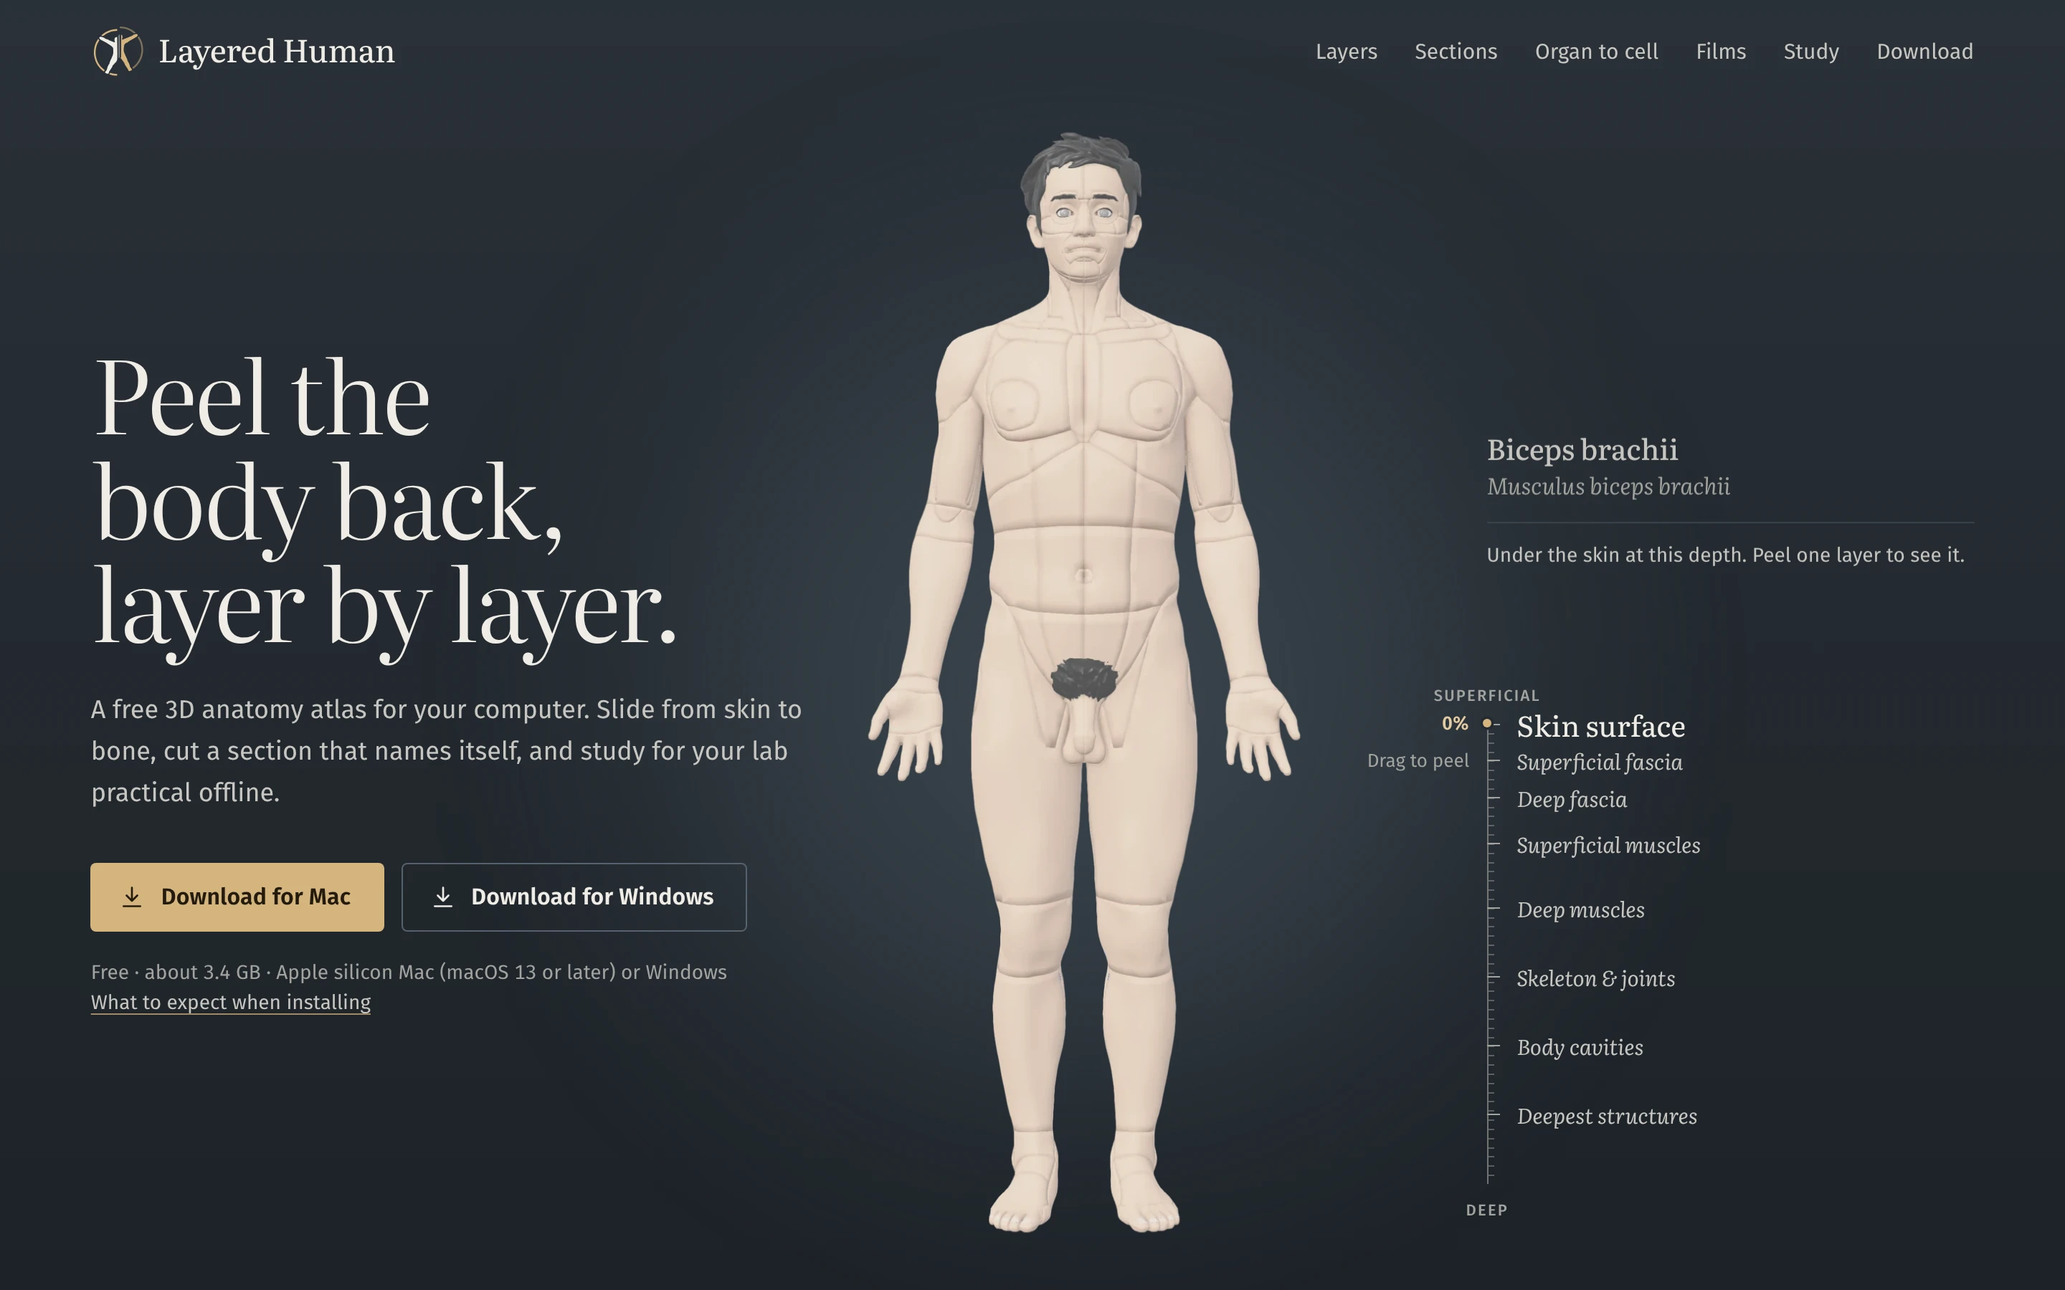
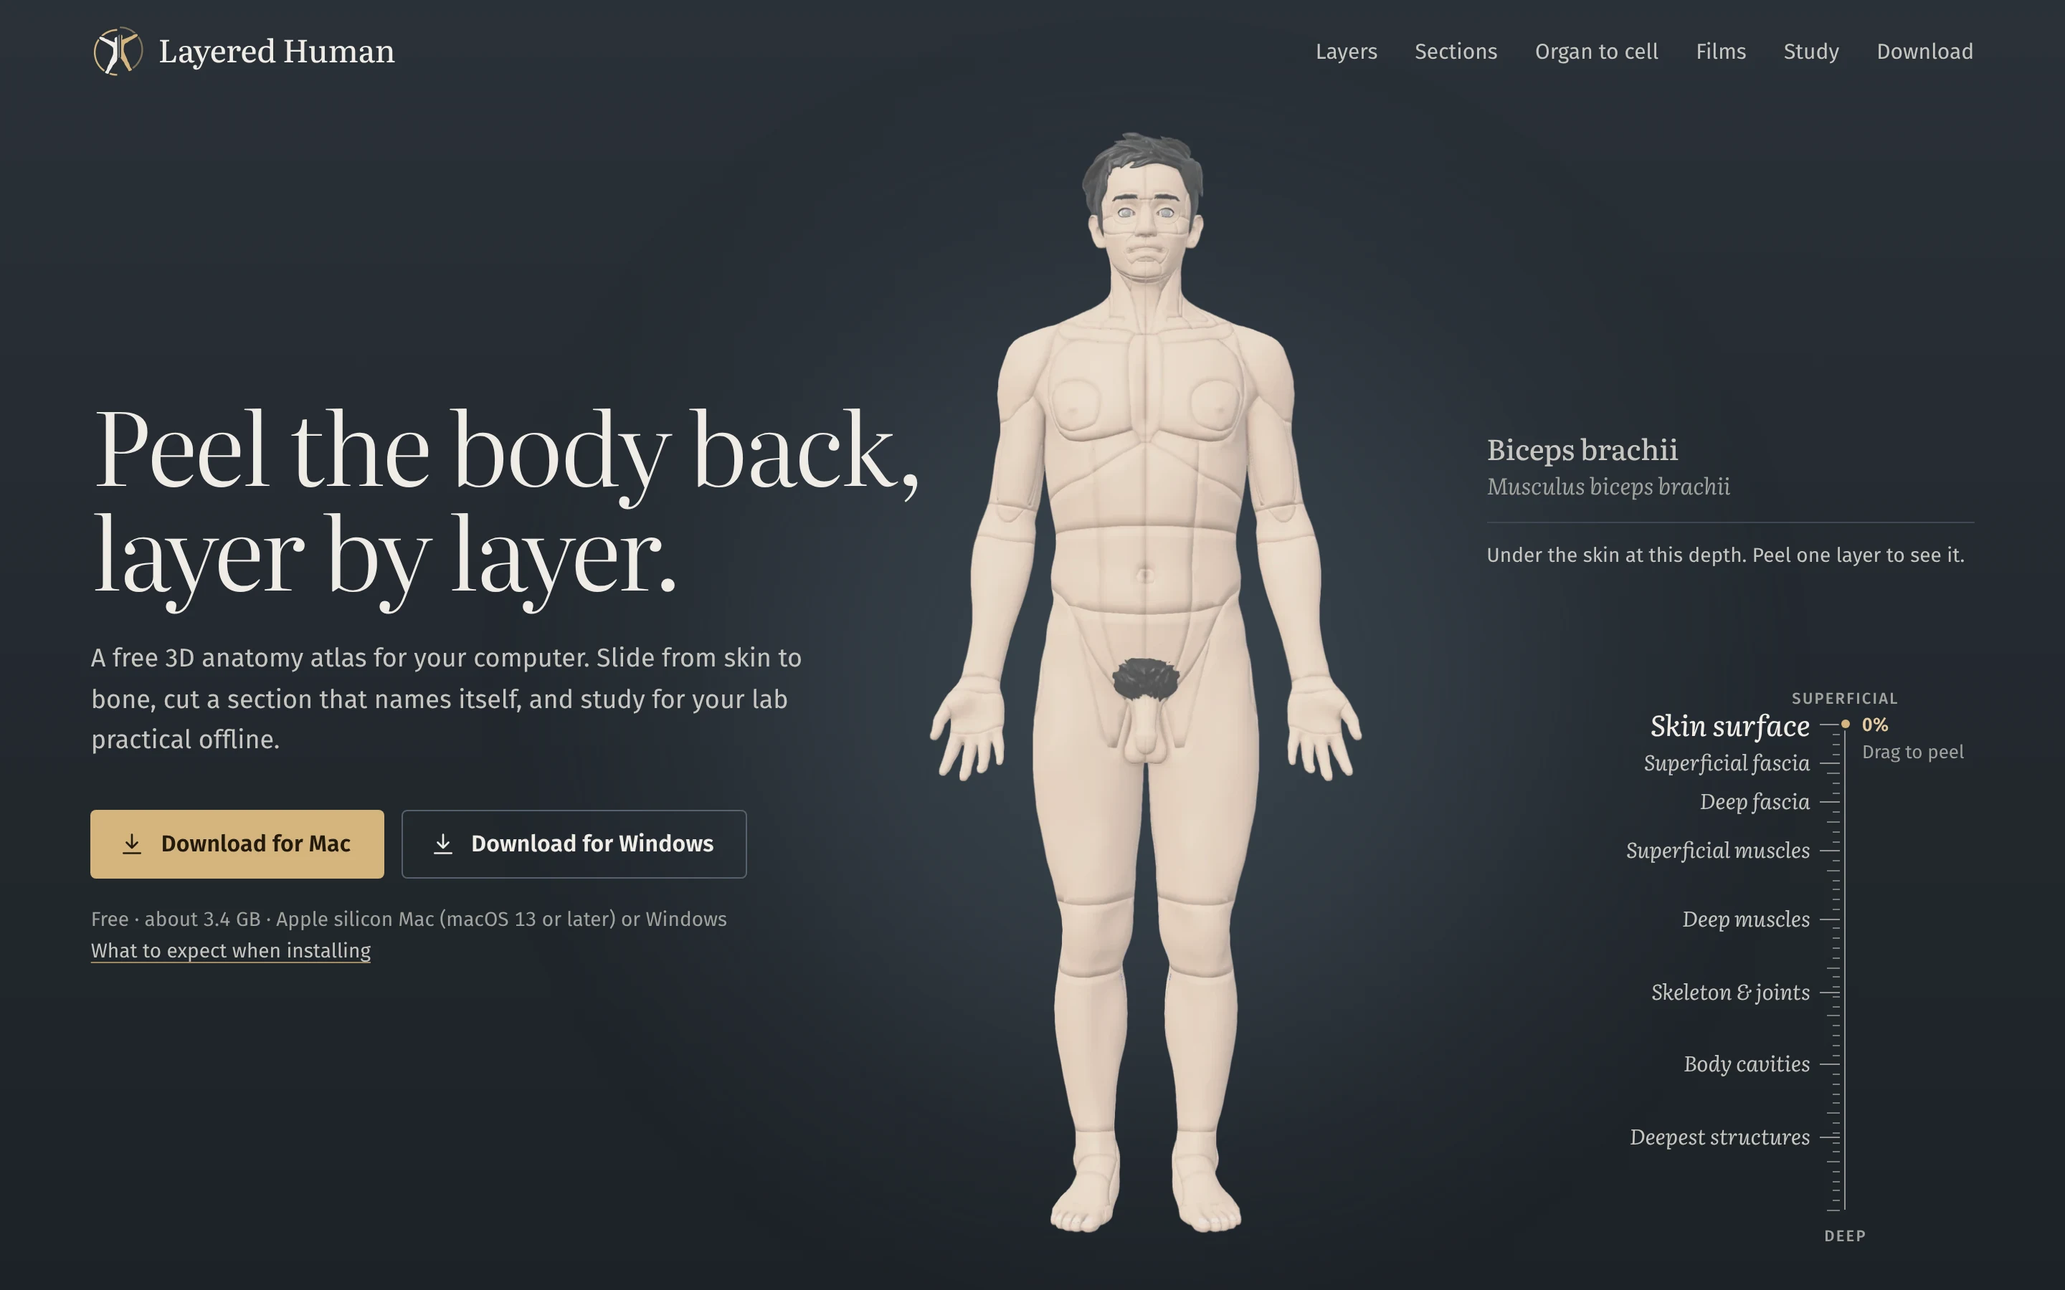
Website: the hero gauge is the app's Rule at its own sizes, and phones get the percentage and the stop beside the knob
The names sit left of the rule and the percentage right of the knob, as in the app, with its ticks, fine marks, knob
ring and sharp pixel snapping. Phones keep the rule and carry the percentage, the stop's name and the selected biceps
beside the knob; the wall label stays for screen readers. The headline keeps two lines from 1280 px, the kidney row's
captions share one line, and the menu button keeps its margin at 320 px.

Claude-Session: https://claude.ai/code/session_01V6Rv2hd8qtgD4JUJWb2Nr9

diff --git a/docs/design/2026-10-14-layered-human/site/specimen/index.html b/docs/design/2026-10-14-layered-human/site/specimen/index.html
@@ -314,6 +314,8 @@ main { overflow-x: clip; }
 }
 .hero-copy { position: relative; z-index: 4; width: min(500px, 36vw); }
 .hero h1 { margin-bottom: 26px; }
+/* From 1280 px the headline keeps its two lines, wider than the column under it; the figure stands 3 % further right */
+@media (min-width: 1280px) { .hero h1 { white-space: nowrap; } .hero > .hero-spec { left: calc(50% + 5.5vw); } }
 .lede { font-size: 18px; line-height: 1.6; color: var(--text-2); margin: 0 0 34px; max-width: 30em; }
 .actions { display: flex; flex-wrap: wrap; gap: 12px; }
 .hero .meta { margin: 18px 0 0; font-size: 14px; line-height: 1.55; color: var(--text-3); max-width: 34em; }
@@ -342,52 +344,60 @@ main { overflow-x: clip; }
 .hero-label.is-hidden .wl-latin { color: var(--text-3); }
 #hero-leaders { transition: opacity .35s; }
 
-/* The dissection gauge: the app's Rule, set beside the figure. Each stop sits at its real level. No heading: the end
-   captions and the names say what it is. */
+/* The dissection gauge: the app's Rule (app/specimen .gauge) at the app's own sizes, set beside the figure. A 1 px
+   --leader rule, a mark every 2 % (5 px) and every 10 % (9 px), a 14 px tick at each stop, italic names 24 px left of
+   the rule (the current one at 20 px), brass from the surface to the knob, and the percentage 12 px right of it. Only
+   the rule's length is fitted to the figure; each stop sits at its real level. No heading: the end captions and the
+   names say what it is. --gx is the rule's place in the box. */
 .gauge {
+  --gx: 250px; --fine: color-mix(in srgb, var(--text-3) 70%, transparent);
   position: absolute; z-index: 4; right: var(--gutter); width: 340px;
-  top: calc(var(--by) + 158px); bottom: 40px;
+  top: calc(var(--by) + 158px); bottom: 26px;
   display: flex; flex-direction: column;
   -webkit-user-select: none; user-select: none;
 }
-.g-track { position: relative; flex: 1; min-height: 240px; margin: 34px 0 34px; cursor: pointer; }
+.g-track { position: relative; flex: 1; min-height: 240px; margin: 34px 0 30px calc(var(--gx) + var(--sx, 0px)); cursor: pointer; }
 .g-rail { position: absolute; left: -22px; width: 44px; top: -12px; bottom: -12px; touch-action: none; cursor: grab; }
 .g-track.is-dragging, .g-track.is-dragging .g-rail { cursor: grabbing; }
-.g-line { position: absolute; left: 0; top: 0; bottom: 0; width: 1px; background: color-mix(in srgb, var(--text-3) 64%, transparent); }
-.g-fine {
-  position: absolute; left: 1px; top: 0; bottom: 0; width: 4px;
-  background: repeating-linear-gradient(to bottom, color-mix(in srgb, var(--text-3) 46%, transparent) 0 1px, transparent 1px calc(100% / 50));
-}
+.g-line { position: absolute; left: 0; top: 0; bottom: 0; width: 1px; background: var(--leader); }
 .g-fill { position: absolute; left: -1px; top: 0; width: 3px; height: calc(var(--d) * 100%); background: var(--accent); }
+/* the fine marks are 51 boxes (drawn by the script), so each lands on a whole pixel whatever the rule's length */
+.g-fine { position: absolute; left: -12px; top: 0; bottom: 0; width: 9px; }
+.g-fine i { position: absolute; right: 0; width: 5px; height: 1px; background: var(--fine); }
+.g-fine i.ten { width: 9px; }
 .g-stops { list-style: none; margin: 0; padding: 0; }
-.g-stop {
-  position: absolute; left: 0; transform: translateY(-50%);
-  display: flex; align-items: center; gap: 12px; white-space: nowrap;
-}
-.g-stop i { width: 9px; height: 1px; background: var(--text-3); }
+.g-stop { position: absolute; right: calc(100% + 3px); height: 0; display: flex; flex-direction: row-reverse; align-items: center; gap: 7px; white-space: nowrap; }
+.g-stop i { flex: none; width: 14px; height: 1px; background: var(--leader); position: relative; top: .5px; }   /* on the stop's line, like the fine marks */
 .g-stop span {
-  font: italic 400 15px/1.2 var(--serif); font-variation-settings: "opsz" 14; color: var(--text-2);
+  transform: translateY(-2%);
+  font: italic 400 15px/20px var(--serif); font-variation-settings: "opsz" 14; color: var(--text-2);
   transition: color .25s;
 }
 .g-stop.past span { color: var(--text-3); }
-.g-stop.cur span { font-style: normal; font-size: 20px; font-weight: 420; color: var(--text); font-variation-settings: "opsz" 20; }
+.g-stop.cur span { font-size: 20px; line-height: 26px; font-weight: 460; color: var(--text); font-variation-settings: "opsz" 20; }
 /* the end captions sit on the rule's line, above and below it, as in the app */
 .g-end { position: absolute; left: .5px; transform: translateX(-50%); white-space: nowrap; font: 500 11px/14px var(--sans); letter-spacing: .1em; text-transform: uppercase; color: var(--text-3); }
-.g-end.top { top: -26px; }
+.g-end.top { top: -24px; }
 .g-end.bot { top: calc(100% + 12px); }
-/* the percentage rides beside the knob, left of the rule; its figures span the knob exactly */
-.g-pct { position: absolute; right: calc(100% + 12px); top: calc(var(--d) * 100%); transform: translateY(-50%);
+/* the percentage rides 12 px right of the knob; half a pixel down puts its figures' top and baseline on the ring */
+.g-pct { position: absolute; left: 12px; top: calc(var(--d) * 100%); transform: translateY(-50%); margin-top: calc(.5px + var(--sy, 0px));
   font: 600 13px/18px var(--sans); color: var(--accent-2); font-variant-numeric: tabular-nums lining-nums; white-space: nowrap; }
-/* the one cue that the body peels: a quiet line under the percentage, gone once the gauge has been used */
-.g-cue { position: absolute; right: calc(100% + 12px); top: 17px; margin: 0; white-space: nowrap;
-  font: 400 13px/18px var(--sans); color: var(--text-3); transition: opacity .4s var(--ease), visibility .4s; }
-.gauge.is-used .g-cue { opacity: 0; visibility: hidden; }
+/* Under the percentage, riding with it: the one cue that the body peels (gone once the gauge has been used); on narrow
+   screens also the stop's name and the selected structure, which have no room elsewhere. */
+.g-ride, .g-pct { pointer-events: none; }
+.g-ride { position: absolute; left: 12px; top: calc(var(--d) * 100% + 11px); margin: 0; max-width: calc(100% - 12px); }
+.g-ride > * { display: block; margin: 0; }
+.g-cue { white-space: nowrap; font: 400 13px/18px var(--sans); color: var(--text-3); transition: opacity .4s var(--ease), visibility .4s; }
+.gauge.is-used .g-cue { opacity: 0; visibility: hidden; height: 0; }
+.gauge.is-low .g-ride { top: auto; bottom: calc((1 - var(--d)) * 100% + 11px); }
+.g-now, .g-sel { display: none; }
 /* The knob is as tall as the percentage's figures, as in the app: a 6 px brass dot in a 1.75 px ring of the wall's own
-   colour, 9.5 px across. The invisible ::after keeps the target at 24 px for a mouse and 44 px for a finger. */
+   colour at its height (--halo, set by the script). The invisible ::after keeps a 24 px target for a mouse and 44 px for
+   a finger. */
 .g-knob {
-  position: absolute; left: .5px; top: calc(var(--d) * 100%); transform: translate(-50%, calc(-50% - .5px));
+  position: absolute; left: .5px; top: calc(var(--d) * 100% + var(--sy, 0px)); transform: translate(-50%, -50%);
   width: 6px; height: 6px; border-radius: 50%; background: var(--accent);
-  box-shadow: 0 0 0 1.75px color-mix(in srgb, var(--stage-top) 50%, var(--stage-bottom));
+  box-shadow: 0 0 0 1.75px var(--halo, var(--stage-top));
   cursor: grab; touch-action: none; z-index: 2;
 }
 .g-knob::after { content: ""; position: absolute; left: 50%; top: 50%; width: 24px; height: 24px; border-radius: 50%; transform: translate(-50%, -50%); }
@@ -453,12 +463,13 @@ main { overflow-x: clip; }
 /* Organ to cell */
 .otc { display: grid; grid-template-columns: minmax(0, 4fr) minmax(0, 7fr); gap: 48px 72px; align-items: center; }
 .otc-copy .wall-label { margin-top: 40px; }
-.otc-row { list-style: none; margin: 0; padding: 0; display: flex; align-items: flex-end; gap: 16px; }
+.otc-row { list-style: none; margin: 0; padding: 0; display: flex; align-items: stretch; gap: 16px; }
 /* Each figure takes a share of the column in proportion to its picture's shape (--a, width over height), so the
    three scale with the column and keep one shared height. The 38 px basis is the arrow and its gap. */
-.otc-row li { display: flex; align-items: flex-end; gap: 16px; flex: var(--a) 1 0px; min-width: 0; }
+.otc-row li { display: flex; align-items: stretch; gap: 16px; flex: var(--a) 1 0px; min-width: 0; }
 .otc-row li + li { flex-basis: 38px; }
 .otc-row figure { margin: 0; text-align: center; flex: 1 1 0; min-width: 0; }
+/* the pictures share one top line, so the three names sit on one line however their second lines wrap */
 .otc-pool { aspect-ratio: var(--a); max-height: 300px; display: flex; justify-content: center; --pool-w: 150%; --pool-h: 140%; }
 .otc-pool img { width: 100%; height: 100%; max-width: 100%; object-fit: contain; }
 .otc-pool img.feather {
@@ -653,7 +664,7 @@ main { overflow-x: clip; }
   .hero-copy { grid-area: copy; width: auto; max-width: 600px; padding-top: 40px; }
   .hero-spec { grid-area: spec; position: relative; left: auto; top: auto; bottom: auto; transform: none; height: var(--fig-h); margin: 72px 0 0; --pool-w: 200%; --pool-h: 108%; }
   .hero-label { grid-area: label; position: relative; right: auto; top: auto; width: auto; max-width: 300px; justify-self: end; margin-top: calc(72px + var(--fig-h) * .2955 - 13px); }
-  .gauge { grid-area: gauge; position: relative; right: auto; top: auto; bottom: auto; width: auto; justify-self: start; margin: calc(72px + var(--fig-h) * .1) 0 0 76px; height: calc(var(--fig-h) * .78); }
+  .gauge { grid-area: gauge; position: relative; right: auto; top: auto; bottom: auto; width: 290px; --gx: 200px; justify-self: start; margin: calc(72px + var(--fig-h) * .1) 0 0; height: calc(var(--fig-h) * .78); }
   .section-stage { padding-inline: 170px; }
 }
 @media (max-width: 960px) {
@@ -672,15 +683,15 @@ main { overflow-x: clip; }
   /* the legs fade under the headline: the mask is on the plates only, so the pool around them is never clipped to a box */
   .hero-spec .peel-stage { -webkit-mask-image: linear-gradient(180deg, #000 60%, transparent 84%); mask-image: linear-gradient(180deg, #000 60%, transparent 84%); }
   .hero-copy { padding-top: 0; margin-top: calc(var(--fig-h) * -.22); }
-  .hero-label { justify-self: start; max-width: 360px; margin: 40px 0 0; }
+  /* The wall label would land under the download buttons, out of sight while the gauge is dragged, and there is no room
+     for it beside the figure: the selected biceps is named under the percentage instead, at the biceps' own height. The
+     label stays for screen readers, with the nerve and the action. */
+  .hero-label { position: absolute; width: 1px; height: 1px; margin: -1px; overflow: hidden; clip: rect(0 0 0 0); white-space: nowrap; }
   .gauge { margin: calc(var(--fig-h) * .07) 0 0; height: calc(var(--fig-h) * .62); }
-  /* no room left of the rule beside the figure: the stop names carry the depth, and the cue sits at the rule's foot */
-  .g-end, .g-pct { display: none; }
-  .g-cue { right: auto; left: 17px; top: calc(100% + 12px); }
-  .g-stop { gap: 8px; }
-  .g-stop span { font-size: 13px; }
-  .g-stop.cur span { font-size: 14px; font-weight: 500; }
-  .g-track { min-height: 0; margin: 0; }
+  .g-track { min-height: 0; margin: 0 0 0 calc(var(--gx) + var(--sx, 0px)); }
+  .g-ride { max-width: 180px; }
+  .gauge.is-sel .g-sel { display: block; }
+  .g-sel { font: 400 13px/18px var(--sans); color: var(--text-2); }
   .split, .otc, .micro, .course, .two-texts, .eff, .desk-after { grid-template-columns: minmax(0, 1fr); }
   .split { gap: 20px; }
   .section-stage { padding: 24px 0 0; }
@@ -710,6 +721,21 @@ main { overflow-x: clip; }
   .otc-step { margin: 0; transform: rotate(90deg); }
   .otc-pool { height: 240px; aspect-ratio: auto; }
   .otc-pool img { width: auto; }
+}
+@media (max-width: 359px) {
+  /* the lockup and the menu button keep the gutter on the narrowest phones; the figure gives the gauge a little room */
+  .hero { --fig-h: clamp(360px, 54svh, 520px); }
+  .site-head { gap: 10px; }
+  .head-right > .menu-btn { padding: 0 9px 0 8px; gap: 6px; }
+}
+@media (max-width: 599px) {
+  /* Phones: no room for eight names beside the figure. The rule keeps its ticks; the current stop's name rides under
+     the percentage, beside the knob. */
+  .hero { column-gap: 8px; }
+  .gauge { width: auto; justify-self: stretch; --gx: 18px; }
+  .g-stop span { display: none; }
+  .g-ride { max-width: calc(100% - 12px); }
+  .g-now { display: block; font: italic 400 15px/20px var(--serif); font-variation-settings: "opsz" 14; color: var(--text); }
 }
 @media (max-width: 760px) {
   :root { --head-h: 64px; }
@@ -857,14 +883,14 @@ main { overflow-x: clip; }
   </div>
   <div class="gauge" id="gauge" style="--d:0">
     <div class="g-track" id="g-track">
-      <div class="g-line"></div><div class="g-fine"></div><div class="g-fill"></div>
+      <div class="g-line"></div><div class="g-fine" id="g-fine"></div><div class="g-fill"></div>
       <span class="g-end top" aria-hidden="true">Superficial</span>
       <span class="g-end bot" aria-hidden="true">Deep</span>
       <div class="g-rail" aria-hidden="true"></div>
       <div class="g-knob" id="g-knob" role="slider" tabindex="0" aria-label="Dissection depth" aria-orientation="vertical"
            aria-valuemin="0" aria-valuemax="85" aria-valuenow="0" aria-valuetext="Skin surface, 0% deep"></div>
       <span class="g-pct" aria-hidden="true">0%</span>
-      <p class="g-cue" aria-hidden="true">Drag to peel</p>
+      <p class="g-ride" aria-hidden="true"><span class="g-now">Skin surface</span><span class="g-sel">Biceps brachii, selected</span><span class="g-cue">Drag to peel</span></p>
       <ol class="g-stops" aria-hidden="true"></ol>
     </div>
   </div>
@@ -1465,6 +1491,22 @@ main { overflow-x: clip; }
       'the heart, the great vessels and the kidneys', 'the deepest structures'];
     var stage = $('#peel-stage'), spec = $('#hero-spec'), gauge = $('#gauge'), track = $('#g-track'), knob = $('#g-knob');
     var pct = $('.g-pct', gauge), stopList = $('.g-stops', gauge), label = $('#hero-label'), note = $('#hl-note');
+    var now = $('.g-now', gauge), fine = $('#g-fine');
+    /* a mark every 2 %, a longer one every 10 %, as in the app */
+    for (var f = 0; f <= 50; f++) { var m = document.createElement('i'); m.style.top = (f * 2) + '%'; if (f % 5 === 0) m.className = 'ten'; fine.appendChild(m); }
+    /* the knob's ring is the wall's own colour where it sits: the wall is one fixed wash, top to bottom of the window */
+    function halo() {
+      /* the rule and the knob land on whole device pixels, as in the app, so the dot and its ring stay sharp */
+      var dpr = window.devicePixelRatio || 1, snap = function (v) { return Math.round(v * dpr) / dpr - v; };
+      var tx = track.getBoundingClientRect().left - (parseFloat(gauge.style.getPropertyValue('--sx')) || 0);
+      gauge.style.setProperty('--sx', snap(tx).toFixed(3) + 'px');
+      var ky = knob.getBoundingClientRect().top - (parseFloat(gauge.style.getPropertyValue('--sy')) || 0);
+      gauge.style.setProperty('--sy', snap(ky).toFixed(3) + 'px');
+      var y = ky + 3, f = Math.max(0, Math.min(1, y / window.innerHeight));
+      knob.style.setProperty('--halo', 'color-mix(in srgb, var(--stage-bottom) ' + (f * 100).toFixed(1) + '%, var(--stage-top))');
+    }
+    window.addEventListener('scroll', function () { if (window.scrollY < window.innerHeight * 1.5) halo(); }, { passive: true });
+    window.addEventListener('resize', halo);
     var hex = 'ffffff', depth = 0, shownIdx = -1, dragging = false, tween = 0, loading = false;
     var SKIN = BOXES.peel_00_skin || { box: [1135, 64, 2064, 2304] };
     var S0 = SKIN.box, SW = S0[2] - S0[0], SH = S0[3] - S0[1];
@@ -1541,12 +1583,16 @@ main { overflow-x: clip; }
       pct.textContent = Math.round(d * 100) + '%';
       var cur = floorIdx(d);
       STOPS.forEach(function (st, k) { st.li.classList.toggle('cur', k === cur); st.li.classList.toggle('past', k < cur); });
+      now.textContent = STOPS[cur].name;
+      gauge.classList.toggle('is-low', d > 0.6);   /* deep down, the riding words go above the knob, clear of "Deep" */
+      halo();
       var n = nearest(d), st = STOPS[n];
       knob.setAttribute('aria-valuenow', Math.round(d * 100));
       knob.setAttribute('aria-valuetext', STOPS[cur].name + ', ' + Math.round(d * 100) + '% deep');
       if (n !== shownIdx) {
         shownIdx = n;
         label.classList.toggle('is-hidden', !st.shown);
+        gauge.classList.toggle('is-sel', st.shown);
         if (!st.shown) note.textContent = st.note || GONE;
         spec.setAttribute('aria-label', 'The whole body from the front at ' + Math.round(st.lv * 100) + '% dissection depth: ' + DESC[n]);
         layoutHero();

diff --git a/docs/design/2026-10-14-layered-human/checkpoint-3.html b/docs/design/2026-10-14-layered-human/checkpoint-3.html
@@ -200,7 +200,6 @@ table.tasks td:last-child, table.tasks th:last-child { padding-right: 0; }
     <li>Navigation: the slide&rsquo;s link to its model needs a lookup from tissue to model that the app does not have yet.</li>
     <li>Histology: the body map&rsquo;s eight circles were placed by eye. Ten tissues have no micrograph and show an empty frame, and some micrographs show a pointer or an eyepiece circle.</li>
     <li>Histology: &ldquo;Look for&rdquo; text exists for only two tissues; the data has no field for it or for the stain.</li>
-    <li>Website: its gauge was built before the app&rsquo;s was final and has not been compared with it; phones show no percentage beside the gauge.</li>
   </ul>
 </section>
 
